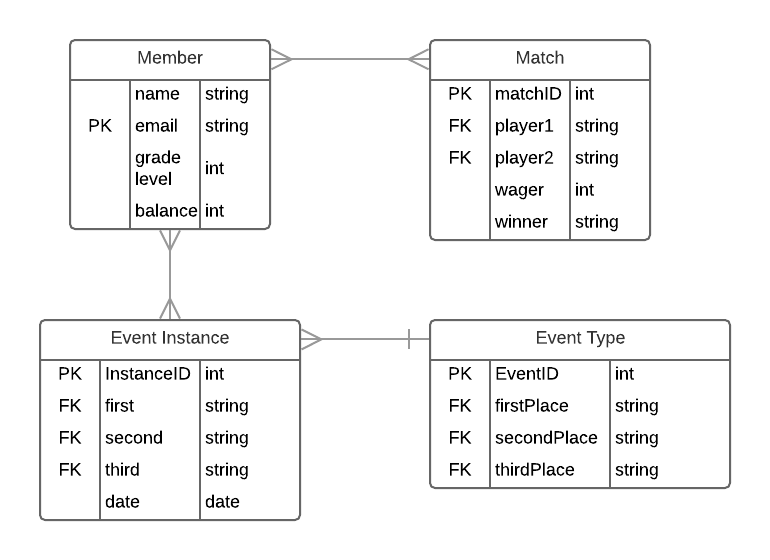
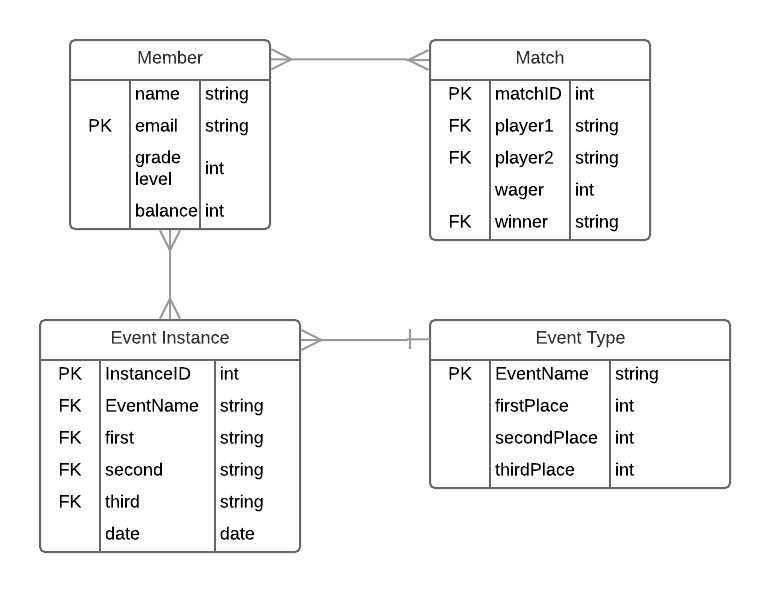
updated ERD, wrote out data dictionary for detailed db design doc

Changed region(s): [[0.0312, 0.5161, 0.9662, 0.9411], [0.0935, 0.0607, 0.8416, 0.4554]]

diff --git a/detailed-DB-Design.md b/detailed-DB-Design.md
@@ -2,8 +2,35 @@
 
 ## 2.1 – Project description, database engine used, potential users, maybe some other stuff
 
-## 2.2 – Data Dictionary, meaning a bullet list of the final tables/columns with a complete description of each
+## 2.2 – Data Dictionary
 
-## 2.3 – A complete finalized Entity-Relationship Diagram [ERD] for the database [NOT hand-drawn, PLEASE!]
+- Member Table
+  - name: full name of the member
+  - email: school email of the member, primary key
+  - grade level: current grade for the user (1, 2, 3, or 4)
+  - balance: current Ecoin balance
+
+- Match Table
+  - matchID: unique identifier for match, primary key
+  - player1: one of the two players in the match, foreign key
+  - player2: second player in the match, foreign key
+  - wager: Ecoin amount waged for the match
+  - winner: unique identifier for the winning player, foreign key
+
+- Event Type Table
+  - EventName: unique identifying name for an event type, primary key
+  - firstPlace: Ecoin amount to be rewarded for winning first place
+  - secondPlace: Ecoin amount to be rewarded for winning second place
+  - thirdPlace: Ecoin amount to be rewarded for winning third place
+
+- Event Instance Table
+  - InstanceID: unique identifier for instance of an event, primary key
+  - EventType: identifier relating back to Event Type, foreign key
+  - first: the first-place winner of event instance, foreign key
+  - second: the second-place winner of event instance, foreign key
+  - third: the third-place winner of event instance, foreign key
+  - date: date information for when the event takes place
+
+## 2.3 – Finalized Entity-Relationship Diagram
 
 ![ERD](/images/detailed-ERD.png)
